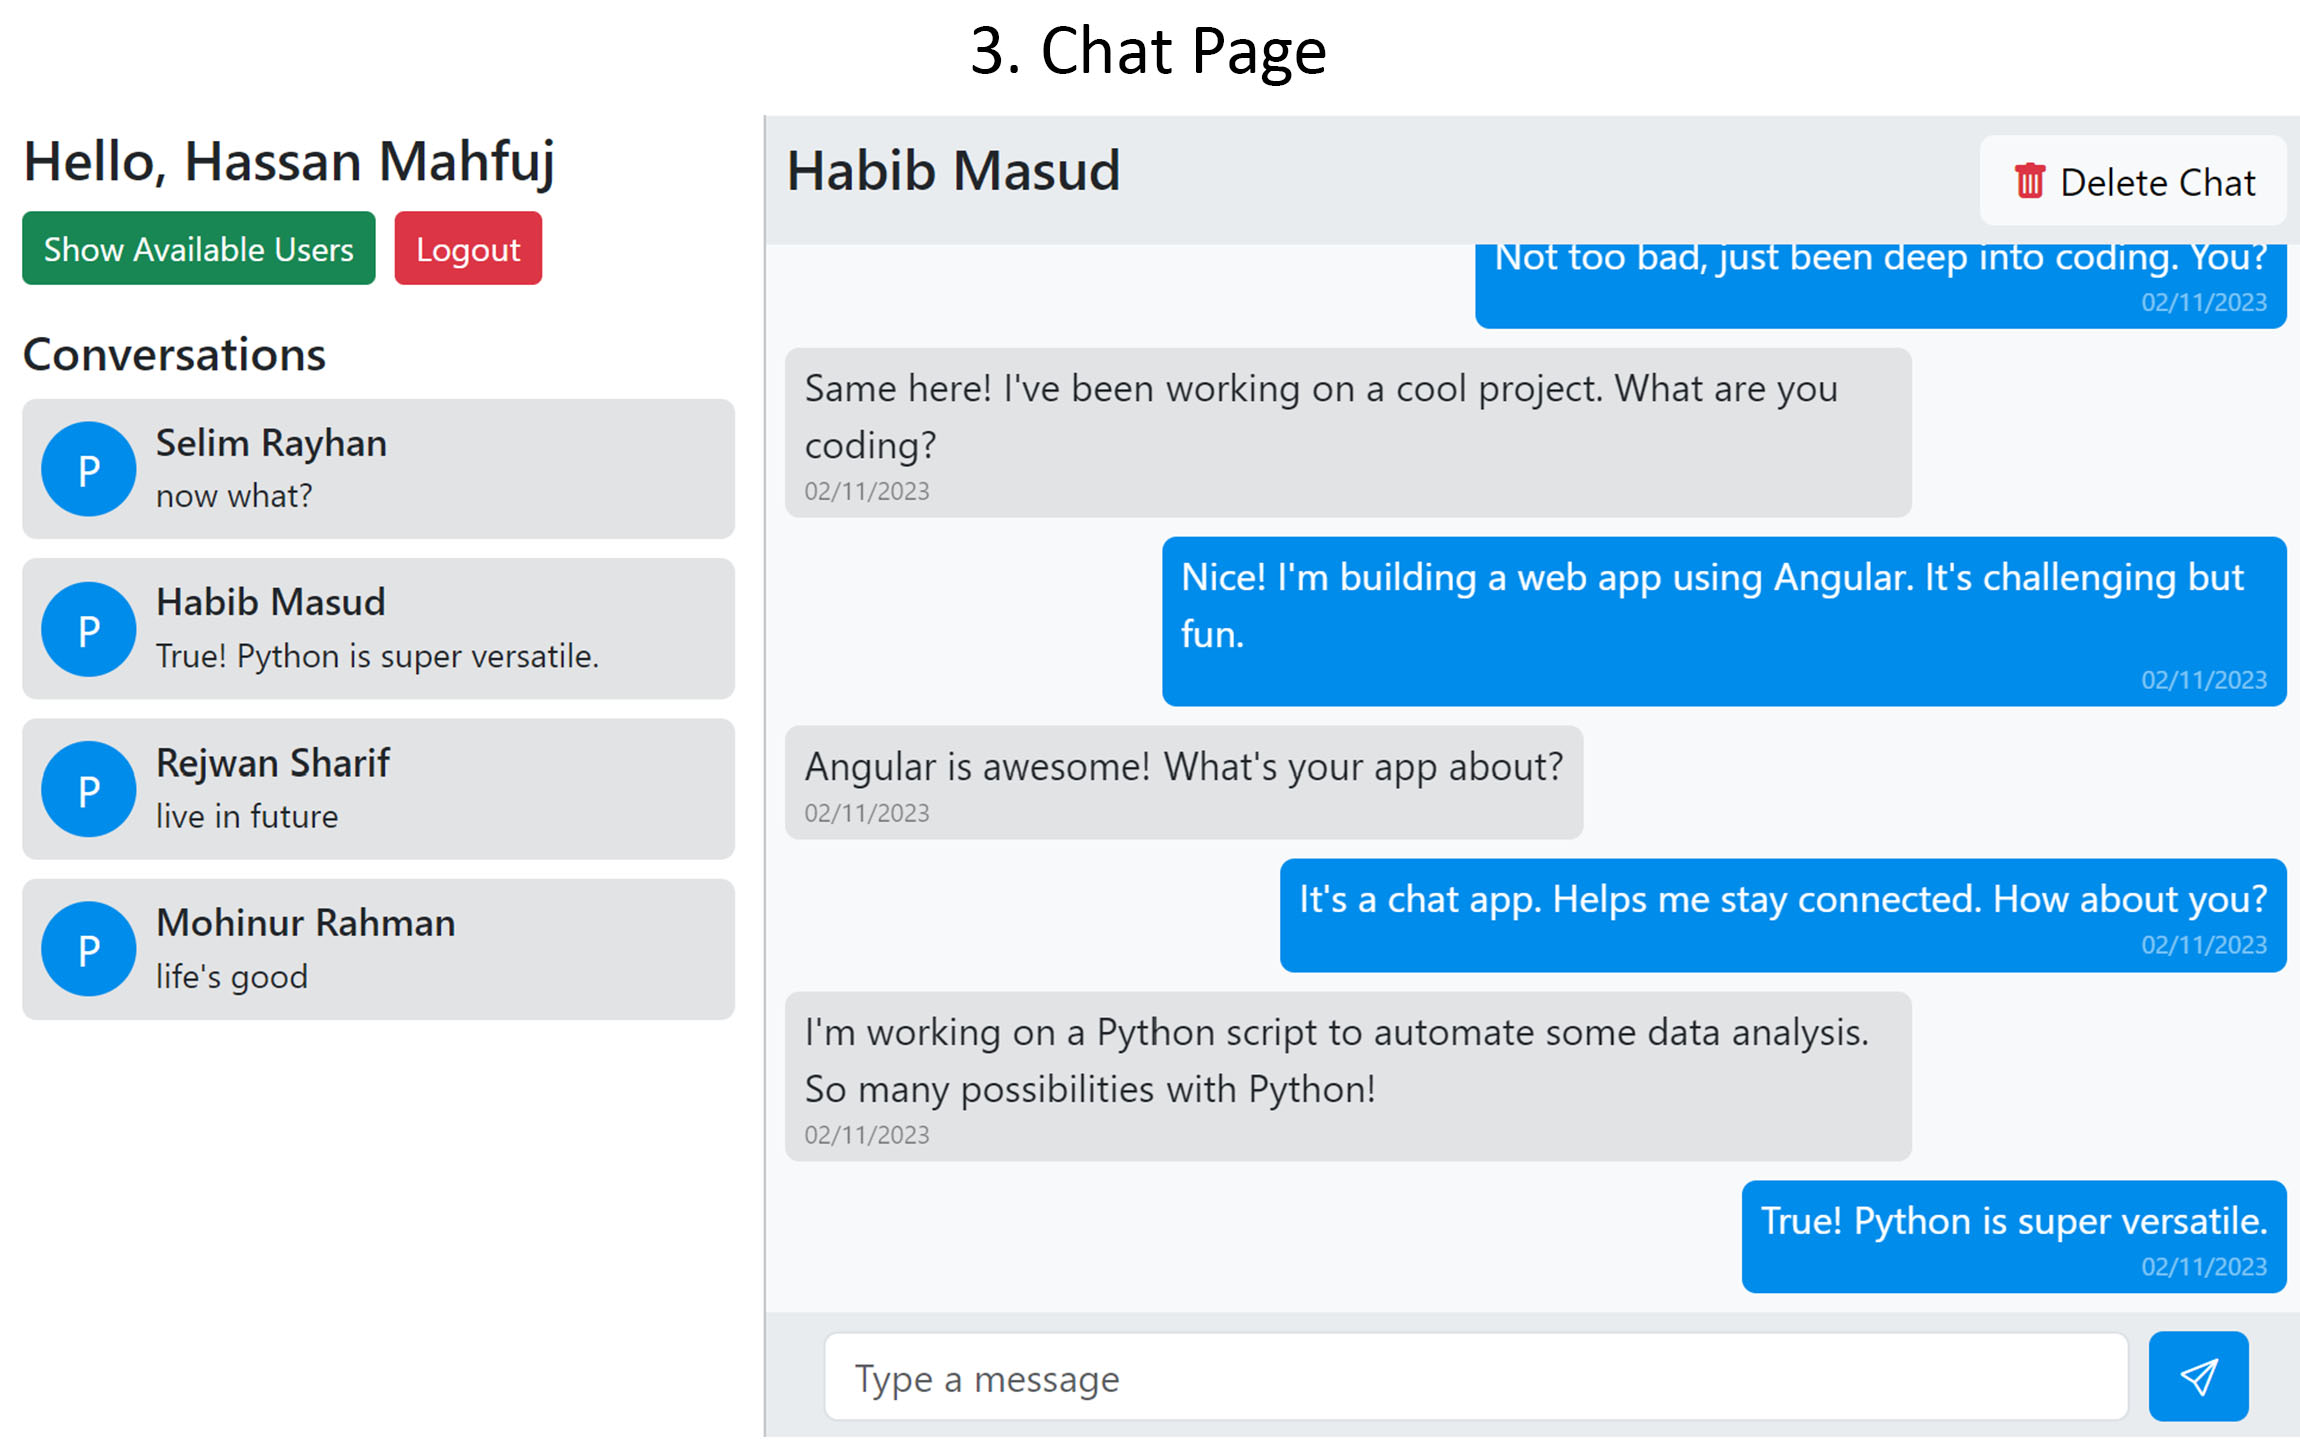
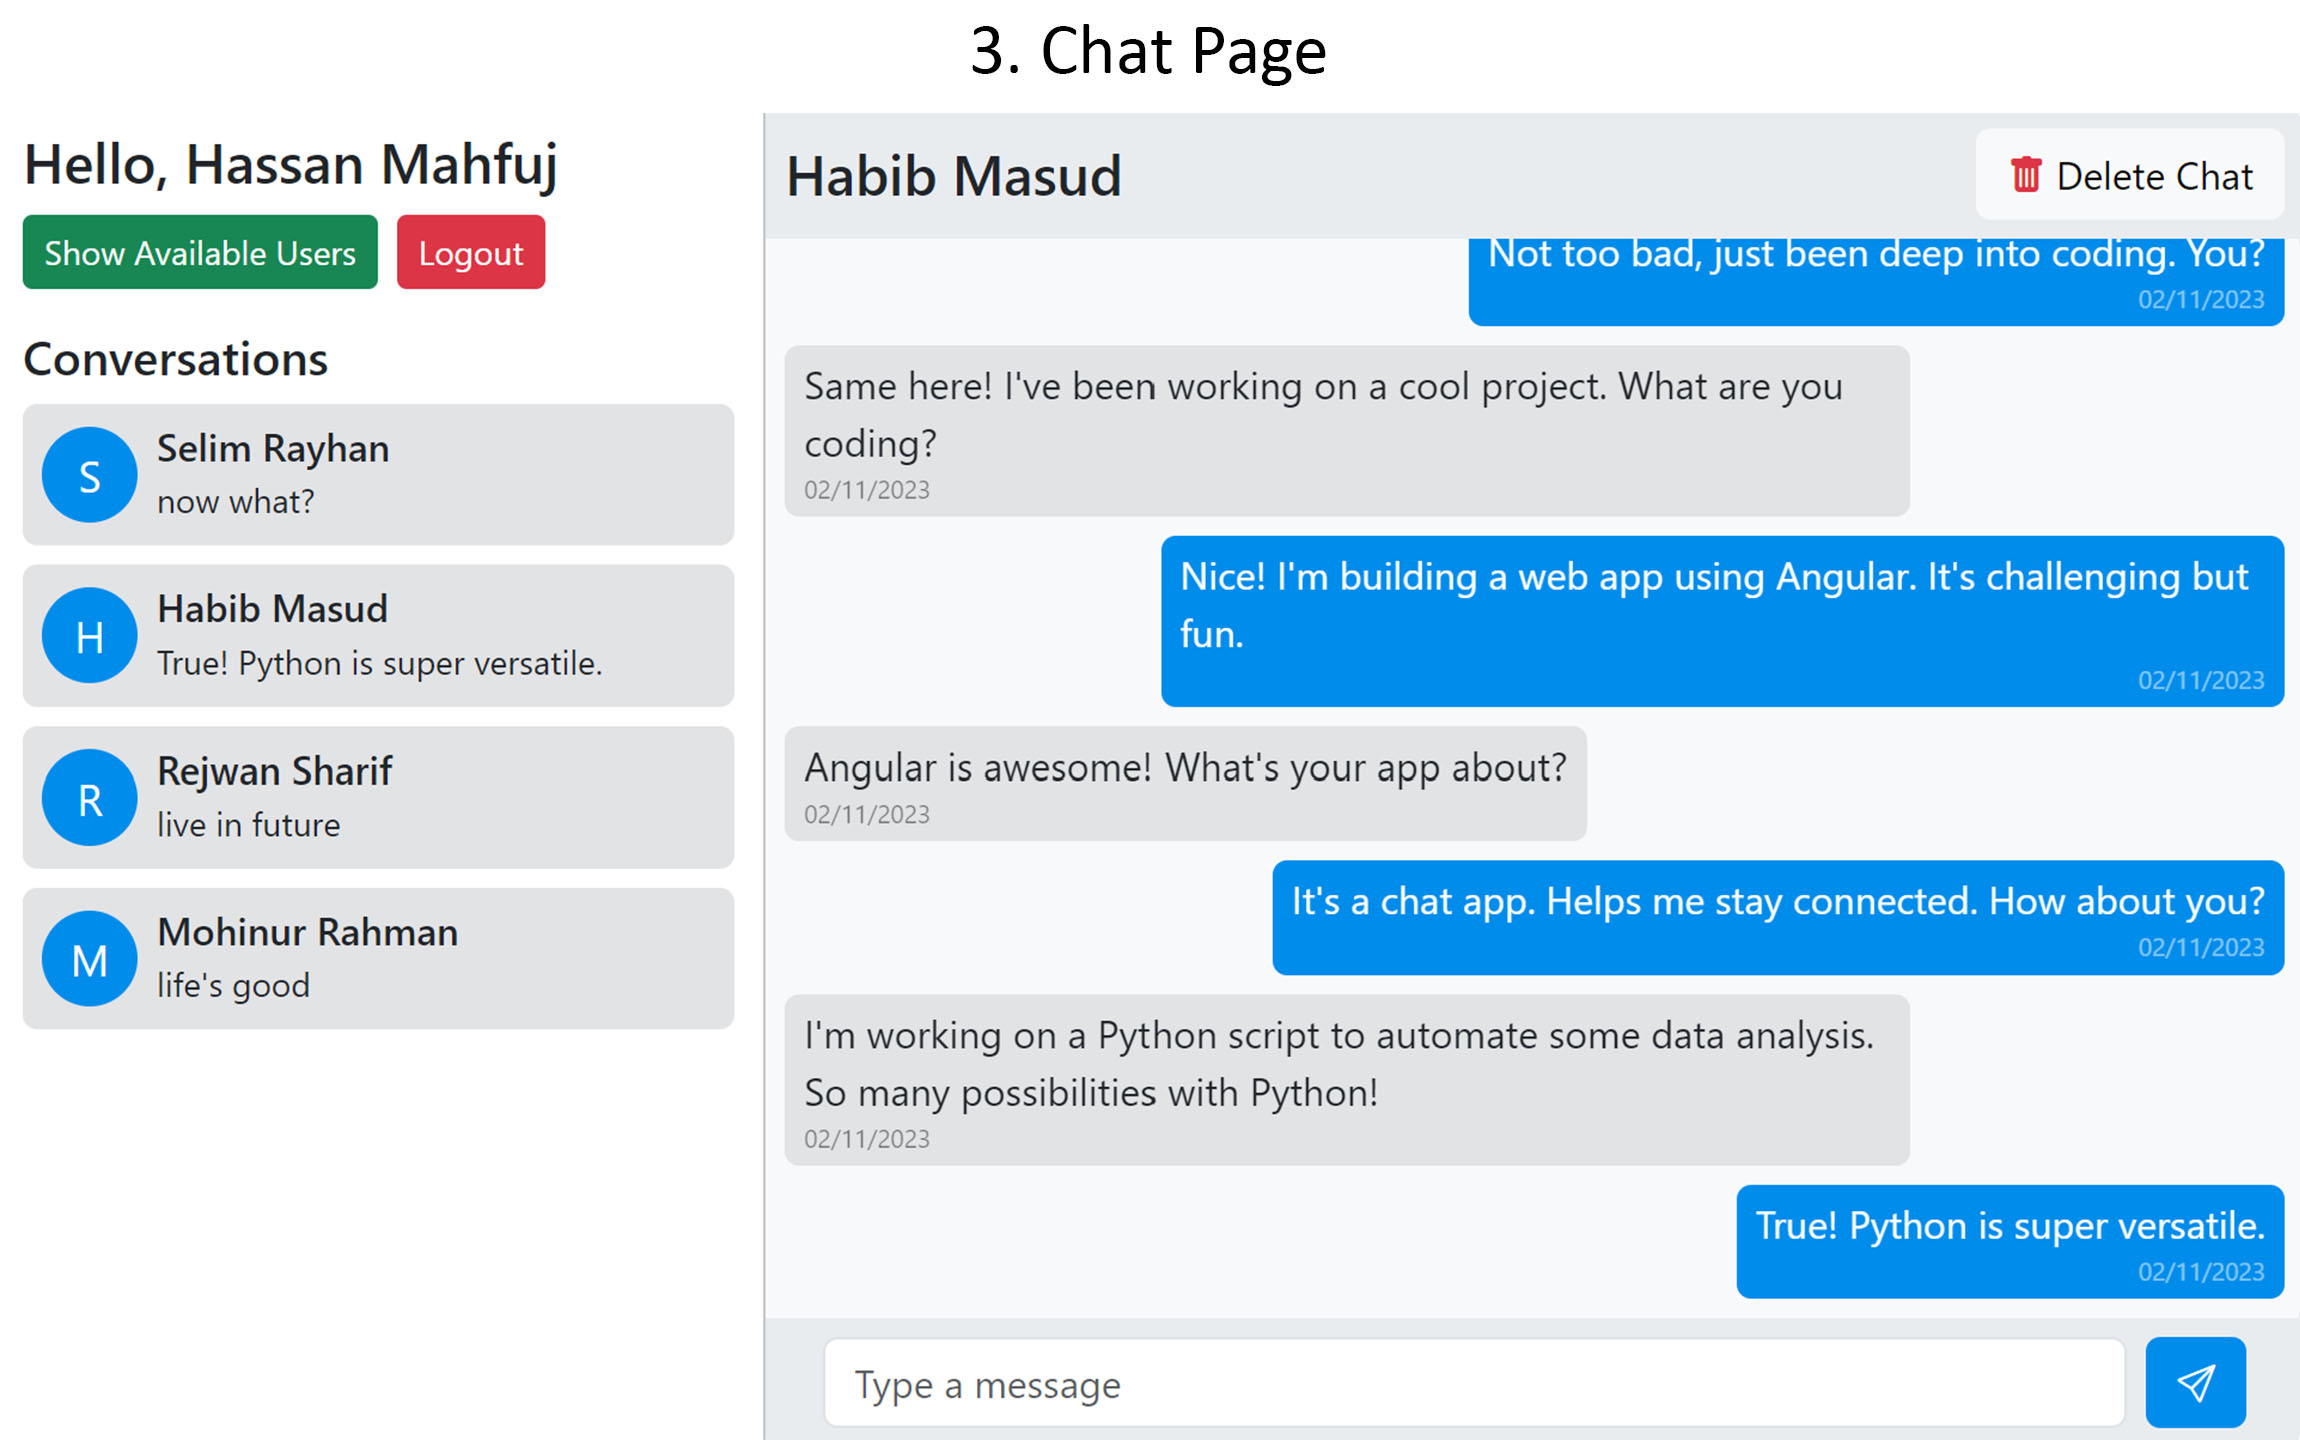
UI enhanced

diff --git a/chatapp-frontend/src/app/components/chat/chat.component.html b/chatapp-frontend/src/app/components/chat/chat.component.html
@@ -2,7 +2,14 @@
   <!-- Row for dividing the content into two columns -->
   <div class="row">
     <!-- Left column for user information, user list, and conversations list -->
-    <div class="col-sm-5 col-md-4 col-lg-3">
+    <div
+      [ngClass]="
+        selectedConversationId == -1
+          ? 'd-block d-sm-block'
+          : 'd-none d-sm-block'
+      "
+      class="col-sm-5 col-md-4 col-lg-3"
+    >
       <div class="vh-100 d-flex flex-column">
         <div class="py-2">
           <h4>Hello, Hassan Mahfuj</h4>
@@ -45,7 +52,9 @@
             class="p-2 mt-2 d-flex align-items-center cursor-pointer rounded bg-secondary-subtle"
           >
             <div>
-              <span class="circular-letter me-2">P</span>
+              <span class="circular-letter me-2">{{
+                c.otherUserName.charAt(0)
+              }}</span>
             </div>
             <div class="w-100">
               <h6 class="m-0">{{ c.otherUserName }}</h6>
@@ -58,6 +67,11 @@
 
     <!-- Right column for displaying selected conversations -->
     <div
+      [ngClass]="
+        selectedConversationId == -1
+          ? 'd-none d-sm-block'
+          : 'd-block d-sm-block'
+      "
       class="col-sm-7 col-md-8 col-lg-9 bg-body-tertiary p-0 border-start border-secondary-subtle"
     >
       <!-- Message for when no conversation is selected -->
@@ -77,17 +91,20 @@
         *ngIf="selectedConversationId != -1"
         class="vh-100 d-flex flex-column"
       >
-        <div class="p-2 mt-1 d-flex justify-content-between bg-body-secondary">
-          <h4>{{ selectedConversationReceiverName }}</h4>
-          <div class="dropdown">
-            <button
-              class="btn btn-light"
-              data-bs-toggle="modal"
-              data-bs-target="#deleteChatModal"
-            >
-              <i class="bi bi-trash-fill text-danger"></i> Delete Chat
+        <div class="p-2 d-flex justify-content-between bg-body-secondary">
+          <div class="d-flex align-items-center justify-content-center">
+            <button (click)="onCloseChat()" class="btn py-0 me-1 d-sm-none">
+              <i class="bi bi-list fs-4"></i>
             </button>
+            <h4 class="m-0">{{ selectedConversationReceiverName }}</h4>
           </div>
+          <button
+            class="btn btn-light"
+            data-bs-toggle="modal"
+            data-bs-target="#deleteChatModal"
+          >
+            <i class="bi bi-trash-fill text-danger"></i> Delete Chat
+          </button>
         </div>
 
         <!-- Main conversation display area -->
